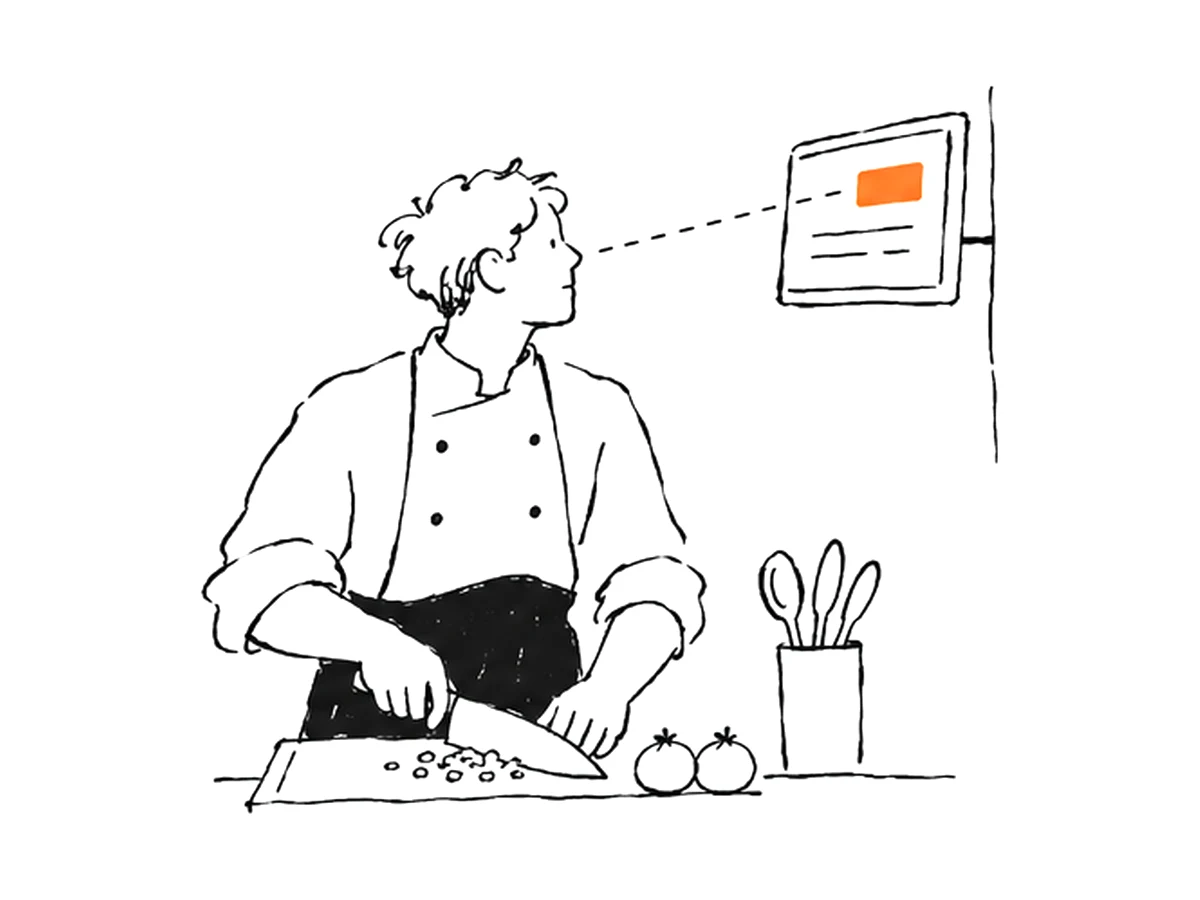
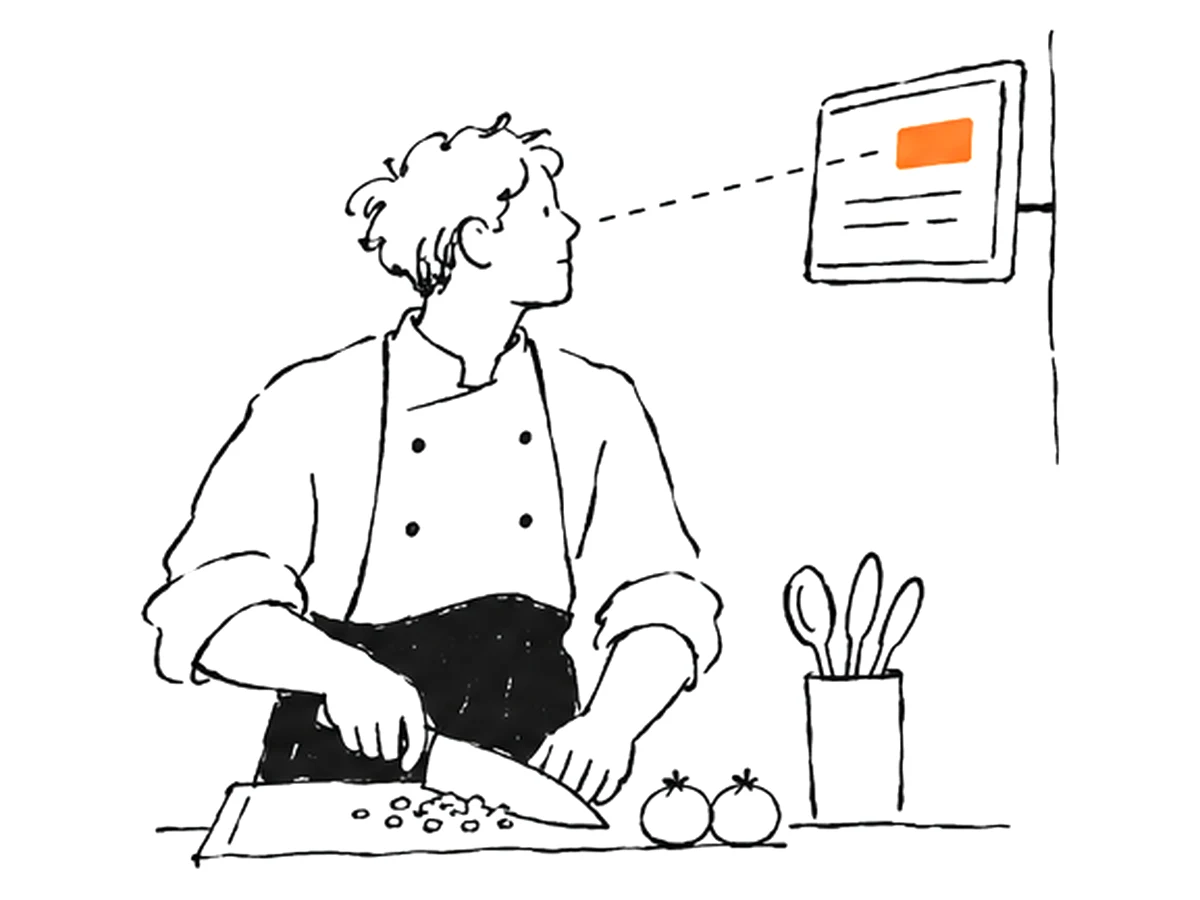
Enlarge insight illustrations within their frame
Claude-Session: https://claude.ai/code/session_01NDe3p8GQ2HZ5WF8ct1RAfY

diff --git a/english.js b/english.js
@@ -2,7 +2,7 @@
 window.PortfolioEN = (() => {
 
 const schedulingIllustration=(kind,en=false)=>{
- const pilImg={priority:1,exchange:2,mutual:3}[kind];if(pilImg){const alt=[["老師在平板上排課，先安排熟悉的固定學生", "老師深夜逐一傳訊息通知學生，學生隔天準時到教室", "老師把空出的課丟到群組，另一位老師接手"], ["The instructor schedules on a tablet, placing familiar regulars first", "She messages each student late at night; students arrive on time", "An open slot shared to the group is picked up by another instructor"]][en?1:0][pilImg-1];return '<img class="pil-illus" loading="lazy" src="./assets/pilates-insight-'+pilImg+'.webp?v=5" alt="'+alt+'">';}
+ const pilImg={priority:1,exchange:2,mutual:3}[kind];if(pilImg){const alt=[["老師在平板上排課，先安排熟悉的固定學生", "老師深夜逐一傳訊息通知學生，學生隔天準時到教室", "老師把空出的課丟到群組，另一位老師接手"], ["The instructor schedules on a tablet, placing familiar regulars first", "She messages each student late at night; students arrive on time", "An open slot shared to the group is picked up by another instructor"]][en?1:0][pilImg-1];return '<img class="pil-illus" loading="lazy" src="./assets/pilates-insight-'+pilImg+'.webp?v=6" alt="'+alt+'">';}
  const zh={
   priority:['先排','穩定、感情好的學生','再排','能上時間少的學生','最後','其他學生','每人至少 2 堂原老師','有人要上 5–8 堂'],
   exchange:['老師付出','整月排好每位學生','手打通知 30–60 人','學生回報','照著上課','取消變少'],
@@ -73,7 +73,7 @@ const schedulingInsight=(num,label,title,copy,kind,caption,en=false)=>'<article 
   '<div id="rq-1"><b class="rq-num">01</b><strong>What functions and flows do different restaurant formats need?</strong><div class="rq-decision"><b>Method</b>Desk research + an exploratory scan of 40 stores across ~10 categories</div><div class="rq-value"><b>Where the answer is</b><a class="rq-link rq-link--wide" href="#kiosk-market">Market focus <span aria-hidden="true">↓</span></a></div></div>'+
   '<div id="rq-2"><b class="rq-num">02</b><strong>Which important capabilities are missing against competitors?</strong><div class="rq-decision"><b>Method</b>Competitive analysis of 7 competitors: features, interfaces and flows</div><div class="rq-value"><b>Where the answer is</b><a class="rq-link" href="#kdec-1">Decision 01 · Add-on entry <span aria-hidden="true">↓</span></a></div></div>'+
   '<div id="rq-3"><b class="rq-num">03</b><strong>Where do merchants report operating difficulties and unmet needs?</strong><div class="rq-decision"><b>Method</b>Interviews with 7 store managers, plus earlier interview data</div><div class="rq-value"><b>Where the answer is</b><a class="rq-link" href="#kdec-2">Decision 02 · Payment guidance <span aria-hidden="true">↓</span></a><a class="rq-link" href="#kdec-3">Decision 03 · Set switching <span aria-hidden="true">↓</span></a></div></div></div>'+
-  '<div class="kiosk-market-restored"><div class="kiosk-market-final" id="kiosk-market"><div class="kiosk-market-final-head"><span>MARKET FOCUS / TARGET FORMATS</span><h3>From a broad market to priority restaurant formats</h3><p>An exploratory scan of 40 stores across roughly ten formats helped identify restaurant types worth investigating further. The direction still needs validation with merchants.</p></div><div class="kiosk-market-final-main"><div class="market-conclusion"><div class="market-sizing market-sizing--circles"><div class="market-sizing-tam"><span>TAM</span><strong>Restaurants needing self-service ordering</strong><div class="market-sizing-sam"><span>SAM</span><strong>Formats current product could serve</strong><div class="market-sizing-focus"><span>TO VALIDATE</span><strong>Candidate formats</strong></div></div></div></div></div><div class="kiosk-market-screening"><h4>What makes a merchant a better fit?</h4><div class="kiosk-screening-item"><h5><span class="h-num">01</span>High transaction frequency</h5><p>Concentrated peak-hour orders and a need to keep ordering quick.</p></div><div class="kiosk-screening-item"><h5><span class="h-num">02</span>Standardized ordering flow</h5><p>Relatively consistent menus and steps that self-service can support.</p></div><div class="kiosk-screening-item"><h5><span class="h-num">03</span>Under NT$300</h5><p>An initial business screening threshold, not a fact about every target format.</p></div></div></div><div class="market-compare kiosk-market-final-stats"><div><span>40</span><strong>Stores</strong><small>Exploratory scan</small></div><div><span>10</span><strong>Formats</strong><small>Broad menu-based types</small></div><div><span>2</span><strong>Focus areas</strong><small>Japanese specialty / beverages</small></div></div><div class="evidence-details kiosk-market-final-chart is-open"><div class="market-chart"><div class="market-chart-head"><h6>Observed KIOSK adoption by format</h6><p>Higher bars show more observed brands, not greater product priority.</p></div><div class="market-bars"><div class="market-bar-row"><span>Chinese casual eateries</span><div class="market-bar-track"><div class="market-bar market-bar-lead" style="width:100%"></div></div><strong>7</strong></div><div class="market-bar-row"><span>Japanese specialty</span><div class="market-bar-track"><div class="market-bar market-bar-lead" style="width:100%"></div></div><strong>7</strong></div><div class="market-bar-row"><span>Fast food</span><div class="market-bar-track"><div class="market-bar market-bar-lead" style="width:86%"></div></div><strong>6</strong></div><div class="market-bar-row"><span>Beverage shops</span><div class="market-bar-track"><div class="market-bar market-bar-lead" style="width:86%"></div></div><strong>6</strong></div><div class="market-bar-row"><span>Western restaurants</span><div class="market-bar-track"><div class="market-bar " style="width:57%"></div></div><strong>4</strong></div><div class="market-bar-row"><span>Quick-service value meals</span><div class="market-bar-track"><div class="market-bar " style="width:43%"></div></div><strong>3</strong></div><div class="market-bar-row"><span>Noodle shops</span><div class="market-bar-track"><div class="market-bar " style="width:29%"></div></div><strong>2</strong></div><div class="market-bar-row"><span>Unmanned ramen</span><div class="market-bar-track"><div class="market-bar " style="width:29%"></div></div><strong>2</strong></div><div class="market-bar-row"><span>Cafés</span><div class="market-bar-track"><div class="market-bar " style="width:29%"></div></div><strong>2</strong></div><div class="market-bar-row"><span>Other</span><div class="market-bar-track"><div class="market-bar " style="width:29%"></div></div><strong>2</strong></div></div><p class="market-chart-note">The bar values count observed KIOSK-adopting brands by format, a different unit from the 40-store exploration; do not add them or generalize nationwide.</p></div></div></div></div><h3>Merchant interviews</h3><div class="research-audience"><div class="research-audience-summary"><div class="research-audience-count"><strong>07</strong><span>Managers across four brands</span></div><div class="interview-brand-logos" aria-label="Interviewed restaurant logos"><img src="./kiosk-logo-mini-mono.svg" alt="mini STEAK HOUSE"><img src="./kiosk-logo-ippudo-mono.svg" alt="Ippudo"><img src="./kiosk-logo-lugu-mono.svg" alt="Fighting Chicken"><img src="./kiosk-logo-kokkio-mono.svg" alt="KOKKIO"></div></div><p>Representing Noble Family Steakhouse, KOKKIO, Ippudo, and Fighting Chicken. I synthesized their reports of customer behavior, plus support tickets and historical data, into user needs.</p></div><h3>Key insights</h3><article class="insight-feature"><div class="insight-feature-copy"><span class="insight-feature-kicker"><em class="insight-number">01</em></span><h4>Customers look only at the screen and miss the payment hardware beside it</h4><p>Customers get stuck at payment more than at ordering: their attention stays on the screen in front of them, so cash, card and contactless modules elsewhere on the machine go unnoticed. A manager said: <strong>“I always have to tell them to put the money into the glowing blue spot.”</strong></p></div><figure><img class="kiosk-illus" loading="lazy" src="./assets/kiosk-insight-1.webp?v=4" alt="Line of sight from screen to payment hardware"></figure></article><article class="insight-feature"><div class="insight-feature-copy"><span class="insight-feature-kicker"><em class="insight-number">02</em></span><h4>Customers know set meals differently depending on the type of restaurant</h4><p>Fast-food customers already know what a set contains and accept the default extras; at other restaurants customers want to see the contents before they decide. A steakhouse asked: <strong>“Could required meal options be selected by default?”</strong></p></div><figure><img class="kiosk-illus" loading="lazy" src="./assets/kiosk-insight-2.webp?v=4" alt="Different menu structures by format"></figure></article><article class="insight-feature insight-feature--decision"><div class="insight-feature-copy"><span class="insight-feature-kicker"><em class="insight-number">03</em></span><h4>Customers decide as they go, not up front</h4><p>Customers often order a single item and only decide at the end whether to upgrade to a set; the choice forms during ordering rather than before it. A manager said: <strong>“Customers often decide to upgrade at the end, so I ask them first.”</strong></p></div><figure><img class="kiosk-illus" loading="lazy" src="./assets/kiosk-insight-3.webp?v=4" alt="Switching from item to set"></figure></article><div class="kiosk-comp" id="kiosk-comp"><h3>Competitive analysis</h3><p>Seven kiosk competitors compared on features, interface and flow. Percentages show how many offer each feature; items marked “also in interviews” came up in merchant interviews too.</p><table><thead><tr><th>Feature</th><th>Share of competitors</th><th>Notes</th></tr></thead><tbody><tr><th scope="row">Add-on flow <em class="kc-int">also in interviews</em></th><td class="kc-pct">71%</td><td>iChef reports about 50% of customers add items once enabled</td></tr><tr><th scope="row">Membership</th><td class="kc-pct">71%</td><td>Eats365 says it brings customers back</td></tr><tr><th scope="row">Recommended tags</th><td class="kc-pct">57%</td><td>incl. Hsing Yi Hsin (~20% of Taiwan POS)</td></tr><tr><th scope="row">Popular-item ranking</th><td class="kc-pct">—</td><td>Dianxiaoer and Uber Eats</td></tr><tr><th scope="row">Back to ordering from payment <em class="kc-int">also in interviews</em></th><td class="kc-pct">100%</td><td></td></tr><tr><th scope="row">Separate invoice/carrier page <em class="kc-int">also in interviews</em></th><td class="kc-pct">85%</td><td></td></tr><tr><th scope="row">Category sidebar <em class="kc-int">also in interviews</em></th><td class="kc-pct">53%</td><td>of 26 brands have more than 5 categories</td></tr><tr><th scope="row">Multiple languages <em class="kc-int">also in interviews</em></th><td class="kc-pct">85%</td><td>all include English; 66% offer Chinese, English and Japanese</td></tr><tr><th scope="row">Animated primary buttons <em class="kc-int">also in interviews</em></th><td class="kc-pct">—</td><td>Dianxiaoer, Hsing Yi Hsin</td></tr><tr><th scope="row">Payment location vs. machine <em class="kc-int">also in interviews</em></th><td class="kc-pct">—</td><td>Dianxiaoer, McDonald’s</td></tr></tbody></table></div>')+
+  '<div class="kiosk-market-restored"><div class="kiosk-market-final" id="kiosk-market"><div class="kiosk-market-final-head"><span>MARKET FOCUS / TARGET FORMATS</span><h3>From a broad market to priority restaurant formats</h3><p>An exploratory scan of 40 stores across roughly ten formats helped identify restaurant types worth investigating further. The direction still needs validation with merchants.</p></div><div class="kiosk-market-final-main"><div class="market-conclusion"><div class="market-sizing market-sizing--circles"><div class="market-sizing-tam"><span>TAM</span><strong>Restaurants needing self-service ordering</strong><div class="market-sizing-sam"><span>SAM</span><strong>Formats current product could serve</strong><div class="market-sizing-focus"><span>TO VALIDATE</span><strong>Candidate formats</strong></div></div></div></div></div><div class="kiosk-market-screening"><h4>What makes a merchant a better fit?</h4><div class="kiosk-screening-item"><h5><span class="h-num">01</span>High transaction frequency</h5><p>Concentrated peak-hour orders and a need to keep ordering quick.</p></div><div class="kiosk-screening-item"><h5><span class="h-num">02</span>Standardized ordering flow</h5><p>Relatively consistent menus and steps that self-service can support.</p></div><div class="kiosk-screening-item"><h5><span class="h-num">03</span>Under NT$300</h5><p>An initial business screening threshold, not a fact about every target format.</p></div></div></div><div class="market-compare kiosk-market-final-stats"><div><span>40</span><strong>Stores</strong><small>Exploratory scan</small></div><div><span>10</span><strong>Formats</strong><small>Broad menu-based types</small></div><div><span>2</span><strong>Focus areas</strong><small>Japanese specialty / beverages</small></div></div><div class="evidence-details kiosk-market-final-chart is-open"><div class="market-chart"><div class="market-chart-head"><h6>Observed KIOSK adoption by format</h6><p>Higher bars show more observed brands, not greater product priority.</p></div><div class="market-bars"><div class="market-bar-row"><span>Chinese casual eateries</span><div class="market-bar-track"><div class="market-bar market-bar-lead" style="width:100%"></div></div><strong>7</strong></div><div class="market-bar-row"><span>Japanese specialty</span><div class="market-bar-track"><div class="market-bar market-bar-lead" style="width:100%"></div></div><strong>7</strong></div><div class="market-bar-row"><span>Fast food</span><div class="market-bar-track"><div class="market-bar market-bar-lead" style="width:86%"></div></div><strong>6</strong></div><div class="market-bar-row"><span>Beverage shops</span><div class="market-bar-track"><div class="market-bar market-bar-lead" style="width:86%"></div></div><strong>6</strong></div><div class="market-bar-row"><span>Western restaurants</span><div class="market-bar-track"><div class="market-bar " style="width:57%"></div></div><strong>4</strong></div><div class="market-bar-row"><span>Quick-service value meals</span><div class="market-bar-track"><div class="market-bar " style="width:43%"></div></div><strong>3</strong></div><div class="market-bar-row"><span>Noodle shops</span><div class="market-bar-track"><div class="market-bar " style="width:29%"></div></div><strong>2</strong></div><div class="market-bar-row"><span>Unmanned ramen</span><div class="market-bar-track"><div class="market-bar " style="width:29%"></div></div><strong>2</strong></div><div class="market-bar-row"><span>Cafés</span><div class="market-bar-track"><div class="market-bar " style="width:29%"></div></div><strong>2</strong></div><div class="market-bar-row"><span>Other</span><div class="market-bar-track"><div class="market-bar " style="width:29%"></div></div><strong>2</strong></div></div><p class="market-chart-note">The bar values count observed KIOSK-adopting brands by format, a different unit from the 40-store exploration; do not add them or generalize nationwide.</p></div></div></div></div><h3>Merchant interviews</h3><div class="research-audience"><div class="research-audience-summary"><div class="research-audience-count"><strong>07</strong><span>Managers across four brands</span></div><div class="interview-brand-logos" aria-label="Interviewed restaurant logos"><img src="./kiosk-logo-mini-mono.svg" alt="mini STEAK HOUSE"><img src="./kiosk-logo-ippudo-mono.svg" alt="Ippudo"><img src="./kiosk-logo-lugu-mono.svg" alt="Fighting Chicken"><img src="./kiosk-logo-kokkio-mono.svg" alt="KOKKIO"></div></div><p>Representing Noble Family Steakhouse, KOKKIO, Ippudo, and Fighting Chicken. I synthesized their reports of customer behavior, plus support tickets and historical data, into user needs.</p></div><h3>Key insights</h3><article class="insight-feature"><div class="insight-feature-copy"><span class="insight-feature-kicker"><em class="insight-number">01</em></span><h4>Customers look only at the screen and miss the payment hardware beside it</h4><p>Customers get stuck at payment more than at ordering: their attention stays on the screen in front of them, so cash, card and contactless modules elsewhere on the machine go unnoticed. A manager said: <strong>“I always have to tell them to put the money into the glowing blue spot.”</strong></p></div><figure><img class="kiosk-illus" loading="lazy" src="./assets/kiosk-insight-1.webp?v=5" alt="Line of sight from screen to payment hardware"></figure></article><article class="insight-feature"><div class="insight-feature-copy"><span class="insight-feature-kicker"><em class="insight-number">02</em></span><h4>Customers know set meals differently depending on the type of restaurant</h4><p>Fast-food customers already know what a set contains and accept the default extras; at other restaurants customers want to see the contents before they decide. A steakhouse asked: <strong>“Could required meal options be selected by default?”</strong></p></div><figure><img class="kiosk-illus" loading="lazy" src="./assets/kiosk-insight-2.webp?v=5" alt="Different menu structures by format"></figure></article><article class="insight-feature insight-feature--decision"><div class="insight-feature-copy"><span class="insight-feature-kicker"><em class="insight-number">03</em></span><h4>Customers decide as they go, not up front</h4><p>Customers often order a single item and only decide at the end whether to upgrade to a set; the choice forms during ordering rather than before it. A manager said: <strong>“Customers often decide to upgrade at the end, so I ask them first.”</strong></p></div><figure><img class="kiosk-illus" loading="lazy" src="./assets/kiosk-insight-3.webp?v=5" alt="Switching from item to set"></figure></article><div class="kiosk-comp" id="kiosk-comp"><h3>Competitive analysis</h3><p>Seven kiosk competitors compared on features, interface and flow. Percentages show how many offer each feature; items marked “also in interviews” came up in merchant interviews too.</p><table><thead><tr><th>Feature</th><th>Share of competitors</th><th>Notes</th></tr></thead><tbody><tr><th scope="row">Add-on flow <em class="kc-int">also in interviews</em></th><td class="kc-pct">71%</td><td>iChef reports about 50% of customers add items once enabled</td></tr><tr><th scope="row">Membership</th><td class="kc-pct">71%</td><td>Eats365 says it brings customers back</td></tr><tr><th scope="row">Recommended tags</th><td class="kc-pct">57%</td><td>incl. Hsing Yi Hsin (~20% of Taiwan POS)</td></tr><tr><th scope="row">Popular-item ranking</th><td class="kc-pct">—</td><td>Dianxiaoer and Uber Eats</td></tr><tr><th scope="row">Back to ordering from payment <em class="kc-int">also in interviews</em></th><td class="kc-pct">100%</td><td></td></tr><tr><th scope="row">Separate invoice/carrier page <em class="kc-int">also in interviews</em></th><td class="kc-pct">85%</td><td></td></tr><tr><th scope="row">Category sidebar <em class="kc-int">also in interviews</em></th><td class="kc-pct">53%</td><td>of 26 brands have more than 5 categories</td></tr><tr><th scope="row">Multiple languages <em class="kc-int">also in interviews</em></th><td class="kc-pct">85%</td><td>all include English; 66% offer Chinese, English and Japanese</td></tr><tr><th scope="row">Animated primary buttons <em class="kc-int">also in interviews</em></th><td class="kc-pct">—</td><td>Dianxiaoer, Hsing Yi Hsin</td></tr><tr><th scope="row">Payment location vs. machine <em class="kc-int">also in interviews</em></th><td class="kc-pct">—</td><td>Dianxiaoer, McDonald’s</td></tr></tbody></table></div>')+
  section('solutions','03','KEY PRODUCT DECISIONS','Three product decisions shaped by research',
  
  "<div class=\"research-question-grid kiosk-decision-rows\"><div id=\"kdec-1\"><b class=\"rq-num\">01</b><strong>Make add-ons discoverable at the right moment</strong><div class=\"rq-decision\"><b>Finding</b>71% of competitors offer an add-on entry, which points to an opportunity to offer complementary items, but direct consumer demand was not established.<a class=\"rq-back\" href=\"#rq-2\">Answers question 02 ↑</a></div><div class=\"rq-value\"><b>Decision</b>Provide a clear add-on entry during selection; any effect on average order value still needs post-launch validation.<a class=\"dec-look\" href=\"#hl-addon\">See it in action <span aria-hidden=\"true\">↓</span></a></div></div><div id=\"kdec-2\"><b class=\"rq-num\">02</b><strong>Connect on-screen guidance to physical payment hardware</strong><div class=\"rq-decision\"><b>Finding</b>Merchant managers described customers focusing on the screen and struggling to locate cash, card, or contactless payment modules.<a class=\"rq-back\" href=\"#rq-3\">Answers question 03 ↑</a></div><div class=\"rq-value\"><b>Decision</b>Map payment instructions to the actual module locations to potentially reduce staff assistance. It sits in the main flow, interrupts the transaction, and pulls staff in, so it became the top priority.<a class=\"dec-look\" href=\"#hl-pay\">See it in action <span aria-hidden=\"true\">↓</span></a></div></div><div id=\"kdec-3\"><b class=\"rq-num\">03</b><strong>Switch between items and sets without starting over</strong><div class=\"rq-decision\"><b>Finding</b>Earlier interviews found that upgrading a single item to a set often required deleting it and repeating choices.<a class=\"rq-back\" href=\"#rq-3\">Answers question 03 ↑</a></div><div class=\"rq-value\"><b>Decision</b>Let customers switch within the existing selection, reducing repetitive work and the risk of abandoning an order.<a class=\"dec-look\" href=\"#hl-combo\">See it in action <span aria-hidden=\"true\">↓</span></a></div></div></div>")+
@@ -101,11 +101,11 @@ const schedulingInsight=(num,label,title,copy,kind,caption,en=false)=>'<article 
   ''+
   ''+
   '<h3>Key insights</h3><div class="kds-user-insights">'+
-  '<article class="insight-feature kds-insight-feature"><div class="insight-feature-copy"><span class="insight-feature-kicker"><em class="insight-number">01</em><span>BATCH PREPARATION</span></span><h4>Kitchen staff batch dishes with the same preparation process instead of finishing one order at a time</h4><p>Cooks check quantities of similar items across orders before collecting ingredients and preparing them together. The kitchen’s unit of work may be a batch of dishes, not an entire ticket.</p></div><figure class="kds-insight-figure kds-illus"><img loading="lazy" src="./assets/kds-insight-1.webp?v=4" alt="The same dish from two orders cooked in one pan"></figure></article>'+
+  '<article class="insight-feature kds-insight-feature"><div class="insight-feature-copy"><span class="insight-feature-kicker"><em class="insight-number">01</em><span>BATCH PREPARATION</span></span><h4>Kitchen staff batch dishes with the same preparation process instead of finishing one order at a time</h4><p>Cooks check quantities of similar items across orders before collecting ingredients and preparing them together. The kitchen’s unit of work may be a batch of dishes, not an entire ticket.</p></div><figure class="kds-insight-figure kds-illus"><img loading="lazy" src="./assets/kds-insight-1.webp?v=5" alt="The same dish from two orders cooked in one pan"></figure></article>'+
   ''+
-  '<article class="insight-feature kds-insight-feature"><div class="insight-feature-copy"><span class="insight-feature-kicker"><em class="insight-number">02</em><span>INTERRUPTED ATTENTION</span></span><h4>Cooks glance up between tasks; they do not watch the screen</h4><p>Cooks’ attention is on prep and cooking, and they look up only in gaps. Cancellations and edits often happen while nobody is looking, so by the next glance the dish may already be under way.</p></div><figure class="kds-insight-figure kds-illus"><img loading="lazy" src="./assets/kds-insight-2.webp?v=4" alt="A cook focused on prep only glances up at a change on screen"></figure></article>'+
+  '<article class="insight-feature kds-insight-feature"><div class="insight-feature-copy"><span class="insight-feature-kicker"><em class="insight-number">02</em><span>INTERRUPTED ATTENTION</span></span><h4>Cooks glance up between tasks; they do not watch the screen</h4><p>Cooks’ attention is on prep and cooking, and they look up only in gaps. Cancellations and edits often happen while nobody is looking, so by the next glance the dish may already be under way.</p></div><figure class="kds-insight-figure kds-illus"><img loading="lazy" src="./assets/kds-insight-2.webp?v=5" alt="A cook focused on prep only glances up at a change on screen"></figure></article>'+
   ''+
-  '<article class="insight-feature kds-insight-feature"><div class="insight-feature-copy"><span class="insight-feature-kicker"><em class="insight-number">03</em><span>EFFICIENCY & FAIRNESS</span></span><h4>Bigger batches are more efficient but keep earlier diners waiting longer</h4><p>Cooking similar dishes together saves time, but those dishes come from orders placed at different times. Cooks trade off filling a batch against how long the first customer has already waited.</p></div><figure class="kds-insight-figure kds-illus"><img loading="lazy" src="./assets/kds-insight-3.webp?v=4" alt="Trade-off between cooking a batch and the first diner waiting"></figure></article><article class="insight-feature kds-insight-feature"><div class="insight-feature-copy"><span class="insight-feature-kicker"><em class="insight-number">04</em><span>FIRE CUE</span></span><h4>When to cook depends on the table, not only on when the order came in</h4><p>If a table is still full or the last course is unfinished, serving early causes trouble, so the kitchen waits for front of house to say it can start. At LA PASTA, for example, front of house tells the kitchen when to fire based on each table.</p></div><figure class="kds-insight-figure kds-illus"><img loading="lazy" src="./assets/kds-insight-4.webp?v=4" alt="The kitchen fires only once the table has space"></figure></article><article class="insight-feature kds-insight-feature"><div class="insight-feature-copy"><span class="insight-feature-kicker"><em class="insight-number">05</em><span>PHYSICAL LIMITS</span></span><h4>Pan capacity and table space set the pace of service</h4><p>How many portions a pan holds and how many plates a table fits both shape the rhythm of service. At LA PASTA, for example, a pan cooks at most two portions of pasta, and a large soup bowl and pasta platter arriving together fill the table.</p></div><figure class="kds-insight-figure kds-illus"><img loading="lazy" src="./assets/kds-insight-5.webp?v=4" alt="A pan holds two portions; large dishes overflow the table"></figure></article></div>'+
+  '<article class="insight-feature kds-insight-feature"><div class="insight-feature-copy"><span class="insight-feature-kicker"><em class="insight-number">03</em><span>EFFICIENCY & FAIRNESS</span></span><h4>Bigger batches are more efficient but keep earlier diners waiting longer</h4><p>Cooking similar dishes together saves time, but those dishes come from orders placed at different times. Cooks trade off filling a batch against how long the first customer has already waited.</p></div><figure class="kds-insight-figure kds-illus"><img loading="lazy" src="./assets/kds-insight-3.webp?v=5" alt="Trade-off between cooking a batch and the first diner waiting"></figure></article><article class="insight-feature kds-insight-feature"><div class="insight-feature-copy"><span class="insight-feature-kicker"><em class="insight-number">04</em><span>FIRE CUE</span></span><h4>When to cook depends on the table, not only on when the order came in</h4><p>If a table is still full or the last course is unfinished, serving early causes trouble, so the kitchen waits for front of house to say it can start. At LA PASTA, for example, front of house tells the kitchen when to fire based on each table.</p></div><figure class="kds-insight-figure kds-illus"><img loading="lazy" src="./assets/kds-insight-4.webp?v=5" alt="The kitchen fires only once the table has space"></figure></article><article class="insight-feature kds-insight-feature"><div class="insight-feature-copy"><span class="insight-feature-kicker"><em class="insight-number">05</em><span>PHYSICAL LIMITS</span></span><h4>Pan capacity and table space set the pace of service</h4><p>How many portions a pan holds and how many plates a table fits both shape the rhythm of service. At LA PASTA, for example, a pan cooks at most two portions of pasta, and a large soup bowl and pasta platter arriving together fill the table.</p></div><figure class="kds-insight-figure kds-illus"><img loading="lazy" src="./assets/kds-insight-5.webp?v=5" alt="A pan holds two portions; large dishes overflow the table"></figure></article></div>'+
   '')+
  section('opportunity','04','PRODUCT DECISIONS','Translating research into actionable next-version directions',
   ''+

diff --git a/index.html b/index.html
@@ -35,10 +35,10 @@
     <div><strong>Yuan Chi Chang</strong><span>UX × Product Thinking × Building</span></div>
     <div class="footer-right"><span>Made with curiosity, 2026.</span><a href="#/">Back to top ↑</a></div>
   </footer>
-  <script src="./english.js?v=20261104illv3"></script>
+  <script src="./english.js?v=20261104illbig"></script>
   <script src="./hero-image-data.js?v=20261029-hq"></script>
   <script src="./hero-back-data.js?v=20261029toast2"></script>
   <script>window.HERO_BACK_IMAGE = './yuan-chi-hero-flip-back.png?v=20261029-coral-fix';</script>
-  <script src="./script.js?v=20261104illv3"></script>
+  <script src="./script.js?v=20261104illbig"></script>
 </body>
 </html>
